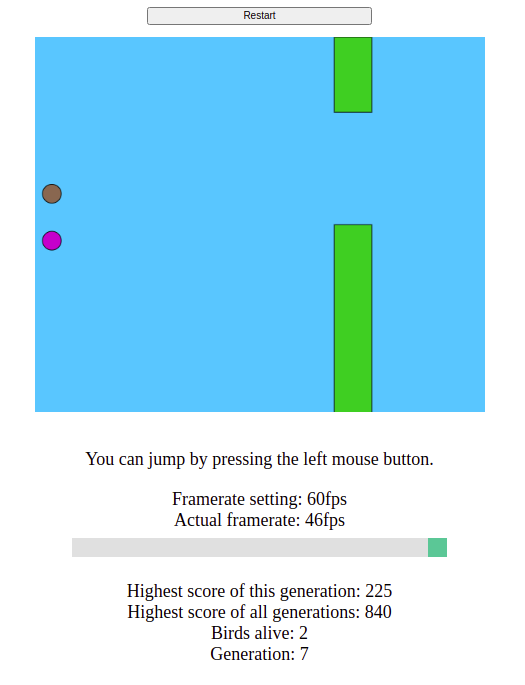
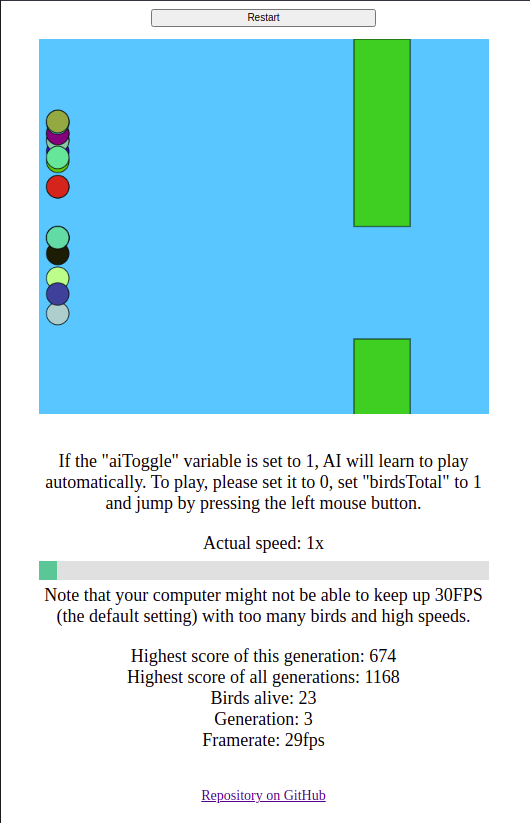
More changes. Seems to work fine.
Changed geometry. Everything is bigger now
Variable (defaultly 10) percentage of birds will be always initialized
randomly
Hidden nodes = 2
Speed adjusting changed and is now great

Changed region(s): [[0.061, 0.0, 0.9448, 0.981], [0.0, 0.0, 0.0305, 0.0307]]

diff --git a/game.js b/game.js
@@ -4,14 +4,16 @@ const canvasHeight = 500.0;
 const backgroundColor = [50, 200, 255];
 
 // Objects and physics settings
-const birdRadius = 12.5; // Radius of the bird's body
-const holeHeight = 125.0; // Height of the gaps
-const pipeWidth = 50.0; // Width of the barrier
-const jumpHeight = 5.0; // Vertical speed to gain when jumping
+const birdRadius = 15.0; // Radius of the bird's body
+const holeHeight = 150.0; // Height of the gaps
+const pipeWidth = 75.0; // Width of the barrier
+// const jumpHeight = 15.0; // Vertical speed to gain when jumping
+const jumpHeight = 13.5; // Vertical speed to gain when jumping
+const fallSpeed = 1.25;
 const birdLeftOffset = 10; // Gap between the left wall and the bird
 
 // Game settings
-const birdsTotal = 50; // Total birds spawned
+const birdsTotal = 100; // Total birds spawned
 
 // Game variables
 let bird = []; // Array of all the birds
@@ -31,10 +33,11 @@ const minMutationVariability = 0.001; // Mutation variability won't go lower tha
 let mutationVariability = initialMutationVariability; 
 
 // AI variables
-// const inputNodes = 3; // Inputs: vertical speed, X difference, Y difference
-const inputNodes = 2; // Inputs: X difference, Y difference
-const hiddenNodes = 4;
+const inputNodes = 3; // Inputs: vertical speed, X difference, Y difference
+// const inputNodes = 2; // Inputs: X difference, Y difference
+const hiddenNodes = 2;
 const outputNodes = 2;
+const allRandomBirds = 10; // Percentage of birds which will not be mutated, but randomly initialized instead
 let highestScoreGen; // = 1 if this generation has a bird with the highest score of all generations
 let bestWeights = []; // Best weights taken from the best bird of the last generation
 
@@ -48,45 +51,84 @@ function setup(){
   document.getElementById("topScore").innerHTML = "Highest score of all generations: 0";
   document.getElementById("alive").innerHTML = "Birds alive: 0";
   document.getElementById("generation").innerHTML = "Generation: 0";
+  document.getElementById("slidecontainer").style.width = canvasWidth + "px";
 
   // Create the canvas
   let canvas = createCanvas(canvasWidth, canvasHeight);
   canvas.position(50, 50);
 
-  // Restart button
+  // Create a restart button
   let restartBtn = createButton("Restart");
   restartBtn.position(canvasWidth / 4 + 50, 10);
   restartBtn.size(canvasWidth / 2, 25);
   restartBtn.mousePressed(restart);
 
   // Set up the first pipe and the birds
-  restart();
+  for(let i = 0; i < birdsTotal; i++){
+    bird[i] = new Bird();
+  }
+  pipe = new Pipe();
+
+  // Initialize by calling this function
+  restart(); 
 
   document.getElementById("speedSlider").value = document.cookie;
 }
 
 // Runs in a continuous loop - once per frame
 function draw(){
-  frameRate(int(speed));
-  background(backgroundColor);
-  pipe.draw();
+  // frameRate(int(speed));
+  frameRate(30);
+  document.getElementById("fps").innerHTML = "Framerate: " + int(frameRate()) + "fps";
 
-  // Jump if mouse is pressed
-  if(!aiToggle && mouseIsPressed && mouse == 0){
+  for(let iter = 0; iter < speed; iter++){
+    background(backgroundColor);
+
+    // Generate a new pipe if the old one has passed. Also, increment scores
+    // Otherwise, move it to the left to create an animation
+    if(pipe.x <= - pipeWidth){ 
+      pipe.init();
+      incrementScore();
+      getHighestScore();
+    }else{
+      pipe.move();
+    }
+    // And draw it on the canvas
+    pipe.draw();
+
+    // Detect collision and draw the bird if it is still alive
     for(let i = 0; i < birdsTotal; i++){
       if(!bird[i].dead){
-        bird[i].jump();
+        bird[i].detectCollision();
+        if(!bird[i].dead){
+          bird[i].move();
+          bird[i].draw();
+        }
       }
     }
-    mouse = 1;
-  }
 
-  // Detect collision and draw the bird if it is still alive
-  for(let i = 0; i < birdsTotal; i++){
-    if(!bird[i].dead){
-      bird[i].dead = detectCollision(i);
-      if(!bird[i].dead){
-        bird[i].draw();
+    if(aiToggle){
+      // Restart automatically if all birds are dead
+      if(getBirdsAlive() == 0){
+        restart();
+      }
+      // Should the bird (birds) jump?
+      for(let i = 0; i < birdsTotal; i++){
+        if(!bird[i].dead){
+          if(predictJump(pipe, bird[i])){
+            bird[i].jump();
+          }
+        }
+      }
+    }else{
+      // Jump if mouse is pressed
+      if(mouseIsPressed && mouse == 0){
+        for(let i = 0; i < birdsTotal; i++){
+          if(!bird[i].dead){
+            bird[i].jump();
+          }
+        }
+        mouse = 1;
       }
     }
   }
@@ -95,75 +137,73 @@ function draw(){
   adjustSpeed();
 
   // Update the number of living birds
-  document.getElementById("alive").innerHTML = "Birds alive: " + howManyBirdsAlive();
+  document.getElementById("alive").innerHTML = "Birds alive: " + getBirdsAlive();
 
-  // Predict and jump with AI
-  if(aiToggle){
-    // Restart automatically if all birds are dead
-    if(howManyBirdsAlive() == 0){
-      restart();
-    }
-    for(let i = 0; i < birdsTotal; i++){
-      // Horizontal difference of the center of the bird and the center of the pipe 
-      let xDiff = pipe.x - (birdLeftOffset + (birdRadius / 2)); 
-      // Vertical difference of the center of the bird and the center of the hole
-      let yDiff = bird[i].y - pipe.y; 
-      // Also give the neural network the bird's vertical speed
-      // let prediction = bird[i].nn.predict([bird[i].vertSpeed, xDiff, yDiff]);
-      let prediction = bird[i].nn.predict([xDiff, yDiff]);
-      // Follow the decision to jump or not
-      if(prediction[0] > prediction[1]){
-        bird[i].jump();
-      }
-    }
-  }
 }
 
 
 // A bird...
 function Bird(){
-  this.score = 0;
-  this.y = canvasHeight / 2;
   this.x = birdRadius + birdLeftOffset;
-  this.vertSpeed = 0.0;
-  this.dead = 0;
   this.color = [Math.random() * 255, Math.random() * 255, Math.random() * 255];
-  this.nn = nnSetup(inputNodes, hiddenNodes, outputNodes); // A bird's neural network
 
-  // Move the bird based on "physics" and draw it on the canvas
-  this.draw = function(){
-    fill(this.color);
-    this.y -= this.vertSpeed * (frameRate() / frameRateDivisor);
-    this.vertSpeed -= 0.2 * (frameRate() / frameRateDivisor);
-    ellipse(this.x, this.y, birdRadius * 2, birdRadius * 2);
+  // Initialize/reset the bird
+  this.init = function(){
+    this.score = 0;
+    this.y = canvasHeight / 2;
+    this.vertSpeed = 0.0;
+    this.dead = 0;
+    this.nn = nnSetup(inputNodes, hiddenNodes, outputNodes); // A bird's neural network
   }
-
+  // Move the bird "according to physics"
+  this.move = function(){
+    /* this.y -= this.vertSpeed * (frameRate() / frameRateDivisor);
+    this.vertSpeed -= 0.2 * (frameRate() / frameRateDivisor); */
+    this.y -= this.vertSpeed;
+    this.vertSpeed -= fallSpeed;
+  }
   // Jumping is simply changing the vertical speed
   this.jump = function(){
     this.vertSpeed = jumpHeight;
+  }
+  // Check if a bird hit a pipe. Return 1 if yes
+  this.detectCollision = function(){
+    if(this.y < birdRadius){
+      this.dead = 1;
+    }else if(this.y > canvasHeight - birdRadius){
+      this.dead = 1;
+    }else if(
+        pipe.x < birdRadius + 10 &&
+        pipe.x > - pipeWidth &&
+        (this.y + birdRadius > pipe.y + (holeHeight / 2) || this.y - birdRadius < pipe.y - (holeHeight / 2))){
+      this.dead = 1;
+    }
+  }
+  // Draw the bord on the canvas
+  this.draw = function(){
+    fill(this.color);
+    ellipse(this.x, this.y, birdRadius * 2, birdRadius * 2);
   }
 }
 
 // A pipe...
 function Pipe(){
-  this.y = Math.random() * (canvasHeight - holeHeight * 2) + holeHeight;
-  this.x = canvasWidth;
-
+  // Initialize/reset the pipe
+  this.init = function(){
+    this.y = Math.random() * (canvasHeight - holeHeight * 2) + holeHeight;
+    this.x = canvasWidth;
+  }
+  // Animate the pipe if there is a bird alive
+  this.move = function(){
+    if(getBirdsAlive() != 0){ 
+      /* this.x -= 5 * (frameRate() / frameRateDivisor); */
+      this.x -= 15;
+    }
+  }
+  // Draw the pipe
   this.draw = function(){
     fill(50, 200, 50);
     stroke(5);
-    // Animate the pipe if there is a bird alive
-    if(howManyBirdsAlive() != 0){ 
-      this.x -= 5 * (frameRate() / frameRateDivisor);
-    }
-    // Generate new pipe if the old one is out of the canvas
-    if(this.x <= - pipeWidth){ 
-      this.y = Math.random() * (canvasHeight - holeHeight * 2) + holeHeight;
-      this.x = canvasWidth;
-      incrementScore();
-      getHighestScore();
-    }
-    // Draw the pipe
     rect(this.x, 0, pipeWidth, this.y - (holeHeight / 2));
     rect(this.x, this.y + (holeHeight / 2), pipeWidth, canvasHeight);
   }
@@ -180,6 +220,8 @@ function restart(){
   // Clone and mutate weights of the previous generation to use with a new one
   if(aiToggle){
     tf.tidy(() => {
+      // Only mutate if this is not the first generation and a score > 0 has
+      // been achieved
       let mutateWeights = runNumber != 1 && topScoreThisGen;
       if(mutateWeights){
         // Adjust the mutation variability based on the highest score
@@ -190,24 +232,24 @@ function restart(){
           bestWeights = getBestWeights(); 
         }
       }
-      // Create new birds
+      // Reset the birds
       for(let i = 0; i < birdsTotal; i++){
-        bird[i] = new Bird();
+        bird[i].init();
       }
       // Mutate the weights (if this is not the first run and if the weights have been used to cross at least one pipe)
       if(mutateWeights){
-        for(let i = 0; i < birdsTotal; i++){
+        for(let i = 0; i < birdsTotal * (1 - (allRandomBirds / 100)); i++){
           bird[i].nn.model.setWeights(mutation(bestWeights, mutationProbability / 100, mutationVariability / 100));
         }
       }
     });
   }else{
-    // Create new birds
+    // Reset the birds
     for(let i = 0; i < birdsTotal; i++){
-      bird[i] = new Bird();
+      bird[i].init();
     }
   }
 
-  // Create a new pipe
-  pipe = new Pipe();
+  // Reset the pipe
+  pipe.init();
 }

diff --git a/misc.js b/misc.js
@@ -31,7 +31,7 @@ function getHighestScore(){
 }
 
 // Return number of birds still alive
-function howManyBirdsAlive(){
+function getBirdsAlive(){
   let alive = 0;
   for(let i = 0; i < birdsTotal; i++){
     if(!bird[i].dead){
@@ -41,26 +41,12 @@ function howManyBirdsAlive(){
   return alive;
 }
 
-// Check if a bird hit a pipe. Return 1 if yes
-function detectCollision(i){
-  if(bird[i].y < birdRadius){
-    return 1;
-  }else if(bird[i].y > canvasHeight - birdRadius){
-    return 1;
-  }else if(
-    pipe.x < birdRadius + 10 &&
-    pipe.x > - pipeWidth &&
-    (bird[i].y + birdRadius > pipe.y + (holeHeight / 2) || bird[i].y - birdRadius < pipe.y - (holeHeight / 2))){
-    return 1;
-  }
-  return 0;
-}
-
 // Adjust speed based on the slider and update the stats
 function adjustSpeed(){
   speed = document.getElementById("speedSlider").value;
   document.cookie = speed;
-  document.getElementById("actualSpeed").innerHTML = "Framerate setting: " + speed + "fps<br>Actual framerate: " + int(frameRate()) + "fps";
+  // document.getElementById("actualSpeed").innerHTML = "Framerate setting: " + speed + "fps<br>Actual framerate: " + int(frameRate()) + "fps";
+  document.getElementById("actualSpeed").innerHTML = "Actual speed: " + speed + "x";
 }
 
 // Adjust the mutation variability based on the highest score

diff --git a/nn.js b/nn.js
@@ -39,6 +39,21 @@ function nnSetup(a, b, c){
   return nn;
 }
 
+function predictJump(pipe, bird){
+  // Horizontal difference of the center of the bird and the center of the pipe
+  let xDiff = pipe.x - (birdLeftOffset + (birdRadius / 2));
+  // Vertical difference of the center of the bird and the center of the hole
+  let yDiff = bird.y - pipe.y;
+  // Also give the neural network the bird's vertical speed
+  let prediction = bird.nn.predict([bird.vertSpeed, xDiff, yDiff]);
+  // let prediction = bird.nn.predict([xDiff, yDiff]);
+  // Follow the decision to jump or not
+  if(prediction[0] > prediction[1]){
+    return 1;
+  }
+  return 0;
+}
+
 // A simple function to get the weights of the best bird
 function getBestWeights(){
   let bestBird = 0;

diff --git a/index.html b/index.html
@@ -14,9 +14,11 @@
 		</div>
 		<div id="speedModify">
 			<p id="actualSpeed"></p>
-			<div class="slidecontainer">
-				<input type="range" min="20" max="60" value="30" class="slider" id="speedSlider">
+			<div id="slidecontainer">
+				<input type="range" min="1" max="50" value="1" class="slider" id="speedSlider">
 			</div>
+			Note that your computer might not be able to keep up 30FPS (the default
+			setting) with too many birds and high speeds.
 		</div>
 		<div id="stats">
 			<div id="score"></div>

diff --git a/style.css b/style.css
@@ -17,7 +17,7 @@
 	font-size: 18pt;
 }
 /* Code for the slider taken from W3Schools */
-.slidecontainer {
+#slidecontainer {
   width: 500px; 
 	margin: 0 auto;
 	margin-top: 10px;
